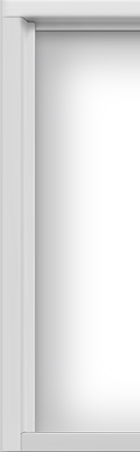
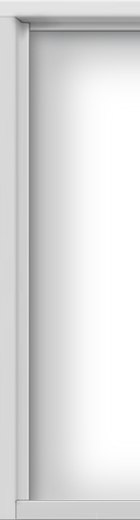
collector box height changed

Changed region(s): [[0.0857, 0.031, 1.0, 1.0]]

diff --git a/common/css/default.css b/common/css/default.css
@@ -1139,7 +1139,7 @@ a.collector-item {
 }
 
 .collector-panel {
-    height: 452px;
+    height: 520px;
     position: relative;
     overflow: hidden;
 }
@@ -1183,7 +1183,7 @@ a.collector-item {
 }
 
 .collector-inner {
-    height: 402px;
+    height: 470px;
     min-width: 100px;
     margin: 30px -100px 0 -105px;
     overflow: hidden;
